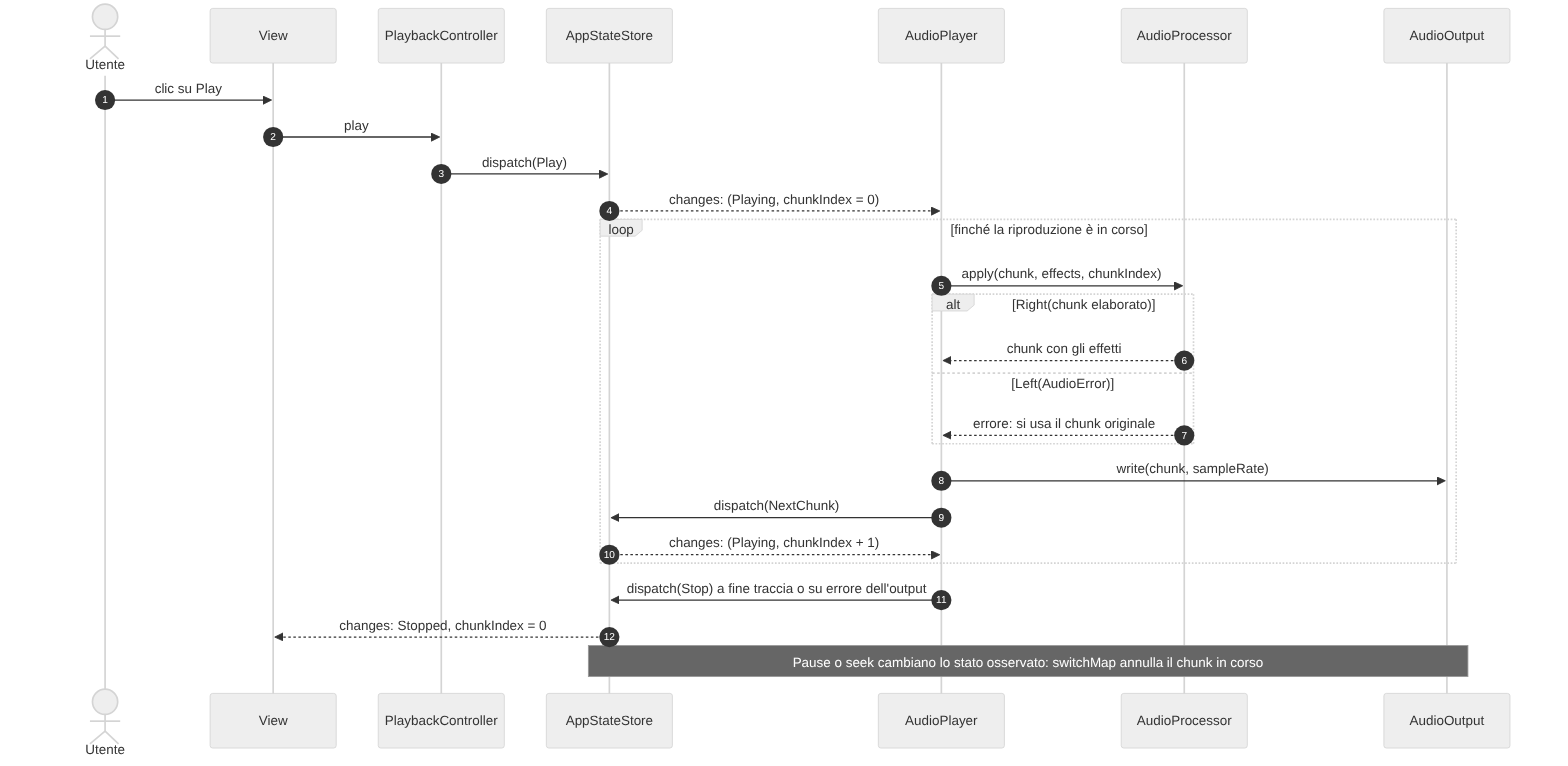
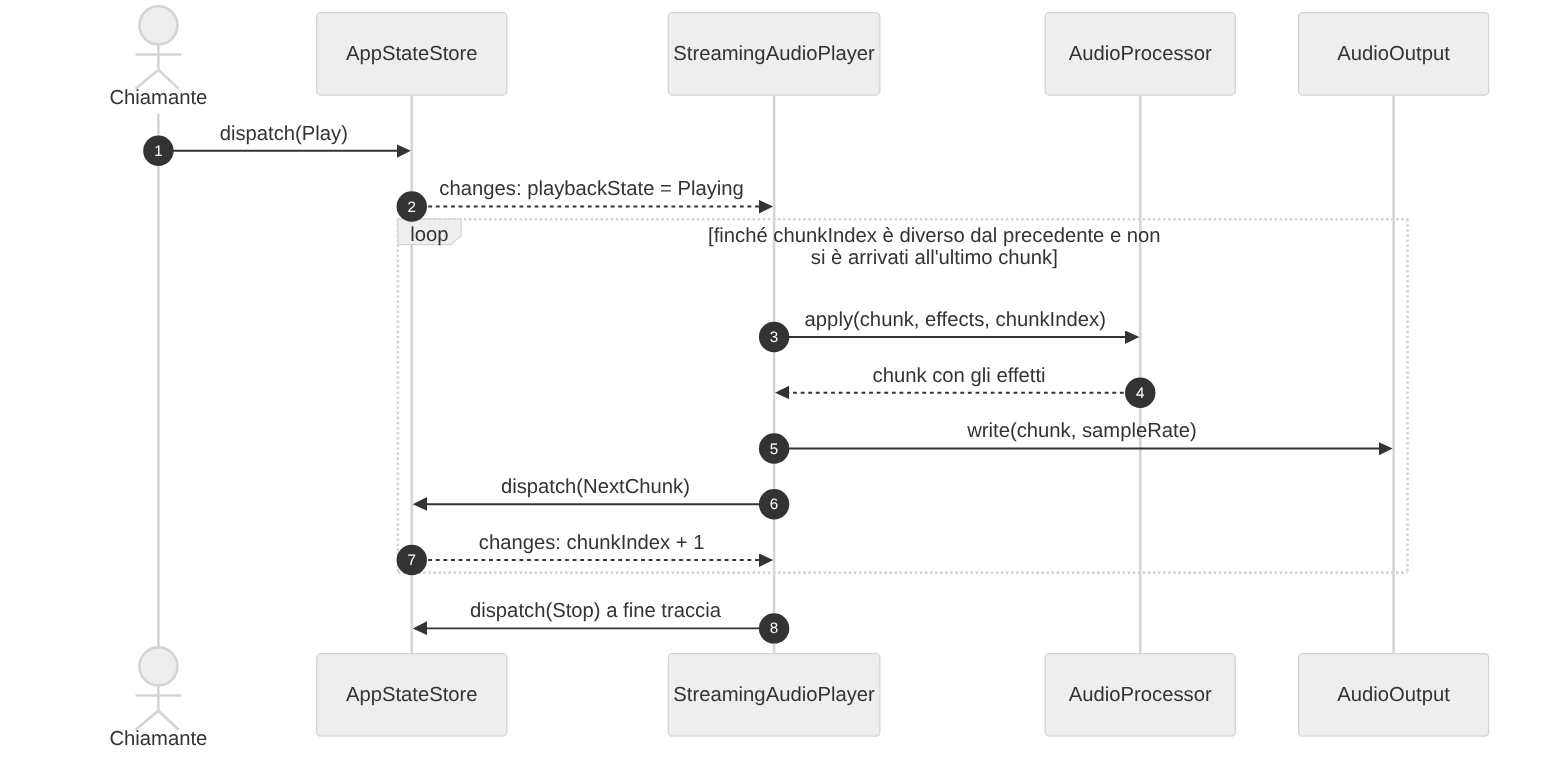
docs: improve audioplayer section

diff --git a/doc/05-detailed-design.md b/doc/05-detailed-design.md
@@ -51,7 +51,7 @@ Lo stato dell'applicazione è contenuto nella `case class` immutabile `AppState`
 | Campo | Tipo | Significato | Valore iniziale |
 |----------------|------------------------|--------------------------------------------|----------------|
 | `playbackState` | `PlaybackState` | fase della riproduzione: `Stopped`, `Playing` o `Paused` | `Stopped` |
-| `track` | `Option[AudioTrack]` | traccia caricata, se presente | `None` |
+| `track` | `Option[AudioTrack]` | traccia caricata, se presente: è quella di riferimento per elaborazione, riproduzione ed eventuale esportazione | `None` |
 | `chunkIndex` | `Int` | indice del chunk da riprodurre | `0` |
 | `effects` | `List[AudioEffect]` | effetti attivi, al più uno per tipo | `List.empty` |
 | `importState` | `ImportState` | ciclo dell'importazione: `Idle`, `Importing`, `Imported(track)` o `Failed(error)` | `Idle` |
@@ -154,30 +154,33 @@ Casi limite:
 
 ### Motore di riproduzione
 
-`AudioPlayer` non ha uno stato proprio: osserva lo store e agisce di conseguenza. Riceve alla creazione un `AudioProcessor` che applica gli effetti a ogni chunk e un `AudioOutput` che lo porta in uscita, e conosce solo i loro contratti. Perciò `SimpleAudioProcessor` e `AudioProcessorWithRules`, così come `AudioOutput.console` e `AudioOutput.speakers`, sono intercambiabili senza modificare il player. Lo store gli viene fornito quando viene avviato, con `run(store)`.
+`AudioPlayer` è il contratto del motore di riproduzione: ha il solo metodo `run(store)`, che restituisce uno `Stream` che descrive il ciclo di vita del player, cioè l'ascolto dell'`AppState` e la riproduzione dei chunk. La sua implementazione, `StreamingAudioPlayer`, non ha uno stato proprio poichè osserva l'`AppStateStore` e agisce di conseguenza, elaborando ogni chunk subito prima di suonarlo. Riceve alla creazione un `AudioProcessor` che applica gli effetti a ogni chunk e un `AudioOutput` che lo porta in uscita. Lo store gli viene fornito solo quando viene avviato, con `run(store)`.
 
-![Dipendenze di AudioPlayer](doc/img/05-detailed-design/dipendenze-player.png){ width=95% }
+![Dipendenze del motore di riproduzione](doc/img/05-detailed-design/dipendenze-player.png){ width=95% }
 
-`StreamingAudioPlayer` ascolta il flusso `changes` e reagisce solo ai cambi della coppia (`playbackState`, `chunkIndex`). Per ogni stato `Playing` prende il chunk in posizione `chunkIndex`, lo elabora con `AudioProcessor.apply` usando gli `effects` correnti, lo manda in output con `AudioOutput.write` e invia `NextChunk` allo store; il nuovo `chunkIndex` che ne risulta fa partire la riproduzione del chunk successivo.
+Anche il trait `AudioOutput` ha un solo metodo, `write(chunk, sampleRate)`. Nell'applicazione è usata l'implementazione `SpeakerAudioOutput`, che riproduce il suono attraverso la libreria Java Sound, effettuando la conversione in byte PCM e scrivendo i campioni su una linea audio con un buffer di circa 200 ms. La scrittura si blocca solo quando il buffer è pieno, finché la riproduzione non libera spazio. È disponibile anche `AudioOutput.console`, che stampa i metadati dei chunk in console. Di per sé non è ritmata, perché `write` termina subito, ma la si può rendere tale facendola attendere la durata di ogni chunk.
+
+`StreamingAudioPlayer` elabora i chunk seguendo l'approccio just-in-time: non processa la traccia in anticipo, ma prepara ogni chunk subito prima di mandarlo in uscita. Una modifica degli effetti o un riposizionamento si applica quindi già dal chunk successivo. Supponendo che come `AudioOutput` sia usato `SpeakerAudioOutput`, il ritmo non deriva da un timer ma dall'output stesso, che accetta un nuovo chunk solo quando ha spazio nel buffer.
+
+Nello specifico, `StreamingAudioPlayer` ascolta il flusso `changes` e reagisce solo ai cambiamenti di `playbackState` e di `chunkIndex` in `AppState`. Quando `playbackState` diventa `Playing`, esso prende il chunk in posizione `chunkIndex`, lo elabora con `AudioProcessor` usando gli `effects` correnti, lo manda in output attraverso `AudioOutput` e invia `NextChunk` allo store. Il ciclo riparte ogni volta che `chunkIndex` è diverso dal precedente, per effetto di `NextChunk` o di `SeekToIndex`, e finisce quando `playbackState` non è più `Playing` o quando la traccia è arrivata all'ultimo chunk, nel qual caso il player stesso invia `Stop` allo store.
+
+![Stati di `StreamingAudioPlayer`](doc/img/05-detailed-design/stati-player.png){ width=90% }
+
+Il diagramma di sequenza seguente mostra la riproduzione di una traccia dall'invio di `Play` allo store fino all'ultimo chunk, quando il player invia `Stop`.
 
 ![Flusso di una riproduzione](doc/img/05-detailed-design/flusso-riproduzione.png){ width=100% }
 
-La riproduzione procede un chunk alla volta: il player non elabora la traccia in anticipo, ma prepara ogni chunk subito prima di mandarlo in uscita. Per questo gli effetti e la posizione possono cambiare mentre la traccia suona, e il risultato si sente dal chunk successivo. Il vincolo è che l'elaborazione di un chunk resti più breve della sua durata (circa 23 ms per 1024 frame a 44100 Hz), altrimenti l'audio si interrompe; la risposta a una modifica non è comunque istantanea, perché una piccola quantità di audio è già stata consegnata all'uscita.
-
-`AudioOutput` ha un solo metodo, `write(chunk, sampleRate)`. `AudioOutput.console` stampa i metadati del chunk in console, mentre `AudioOutput.speakers` produce il suono attraverso la libreria Java Sound: converte i campioni in PCM a 16 bit little-endian e li scrive con `IO.blocking` su una linea audio con un buffer di circa 200 ms, che resta aperta finché non cambiano frequenza di campionamento o numero di canali. L'estensione `paced` aggiunge, dopo la scrittura, un'attesa pari alla durata del chunk, per dare il ritmo reale a un output che non lo impone, come la console.
-
 Scelte di design:
 
-- il player è modellato come un flusso (`Stream` di FS2) perché la riproduzione è una sequenza di chunk nel tempo: si descrive il ciclo "elabora, riproduci, avanza" invece di gestire a mano indici e attese. Il flusso dello stato notifica solo quando qualcosa cambia, quindi non servono controlli periodici, e con `changesBy` e `switchMap` ogni cambio di stato o di posizione interrompe il flusso in corso e ne fa partire uno nuovo;
-- `Pause`, `Stop` e `SeekToIndex` interrompono l'elaborazione del chunk in corso e fanno ripartire il ciclo dal nuovo stato;
-- il ritmo della riproduzione deriva da `AudioOutput.write`, che termina solo quando l'output può accettare il chunk, e non da un timer. Il player resta quindi poco avanti rispetto a quanto si sente.
+- l'`AudioPlayer` è modellato come un flusso (`Stream` di FS2) perché la riproduzione è una sequenza di chunk nel tempo descritta dal ciclo "elabora, riproduci, avanza" invece di gestire a mano indici e attese.
+- l'elaborazione è just-in-time: una modifica degli effetti o un riposizionamento si sente già dal chunk successivo. In cambio l'elaborazione di un chunk deve restare più breve della sua durata. `AudioPlayer` è un trait e `StreamingAudioPlayer` ne è una sola implementazione, quindi in futuro si può aggiungere una soluzione con buffer, che elabora in anticipo alcuni chunk per assorbire i momenti in cui l'elaborazione è più lenta della riproduzione ed evitare le interruzioni.
 
 Casi limite:
 
-- se `AudioProcessor.apply` restituisce un `Left` con un `AudioError`, l'errore viene stampato in console e si riproduce il chunk originale, poiché un effetto malfunzionante non deve rendere silente la riproduzione;
-- se l'output fallisce con un'eccezione, la riproduzione passa a `Stopped` e il player resta attivo, pronto a ripartire;
-- alla fine della traccia il player stesso invia `Stop`, che riporta `chunkIndex` a zero;
-- la linea audio di `AudioOutput.speakers` viene chiusa solo quando il formato cambia: alla chiusura dell'applicazione non è rilasciata esplicitamente.
+- se l'elaborazione di un chunk è più lenta della sua durata (circa 23 ms per 1024 frame a 44100 Hz), il buffer dell'output si svuota e la riproduzione procede a scatti;
+- se invece la CPU è abbastanza potente, il buffer è quasi sempre pieno e una modifica non si sente subito, perché il buffer non viene svuotato. Dopo una modifica degli effetti ma anche impartendo i comandi `Pause` o `SeekToIndex`, in uscita si sentono comunque al massimo circa 200 ms di audio, cioè circa nove chunk da 1024 frame a 44100 Hz, già elaborati con le impostazioni precedenti;
+- se `AudioProcessor` restituisce un `AudioError`, l'errore viene stampato in console e si riproduce il chunk originale, poiché un effetto malfunzionante non deve interrompere la riproduzione;
+- se la riproduzione di un chunk fallisce con un'eccezione (per esempio nell'`AudioOutput`), l'errore viene stampato in console, la riproduzione passa a `Stopped` con `chunkIndex` a zero e il player resta attivo, pronto a ripartire.
 
 ### Lettura e scrittura dei file
 
